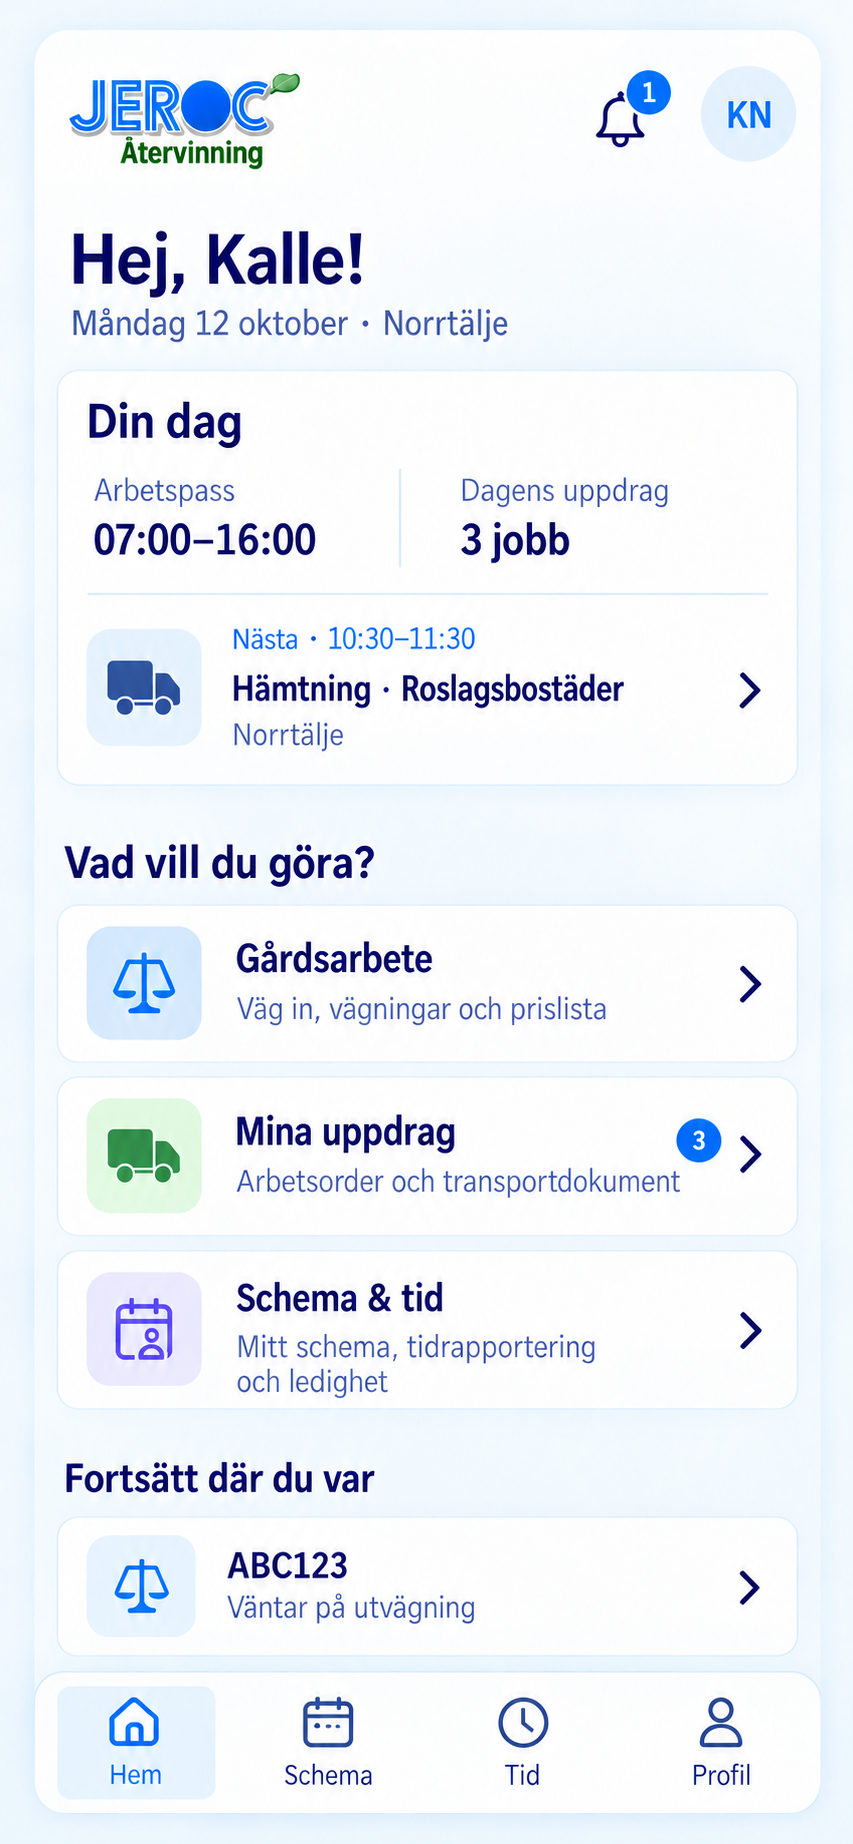
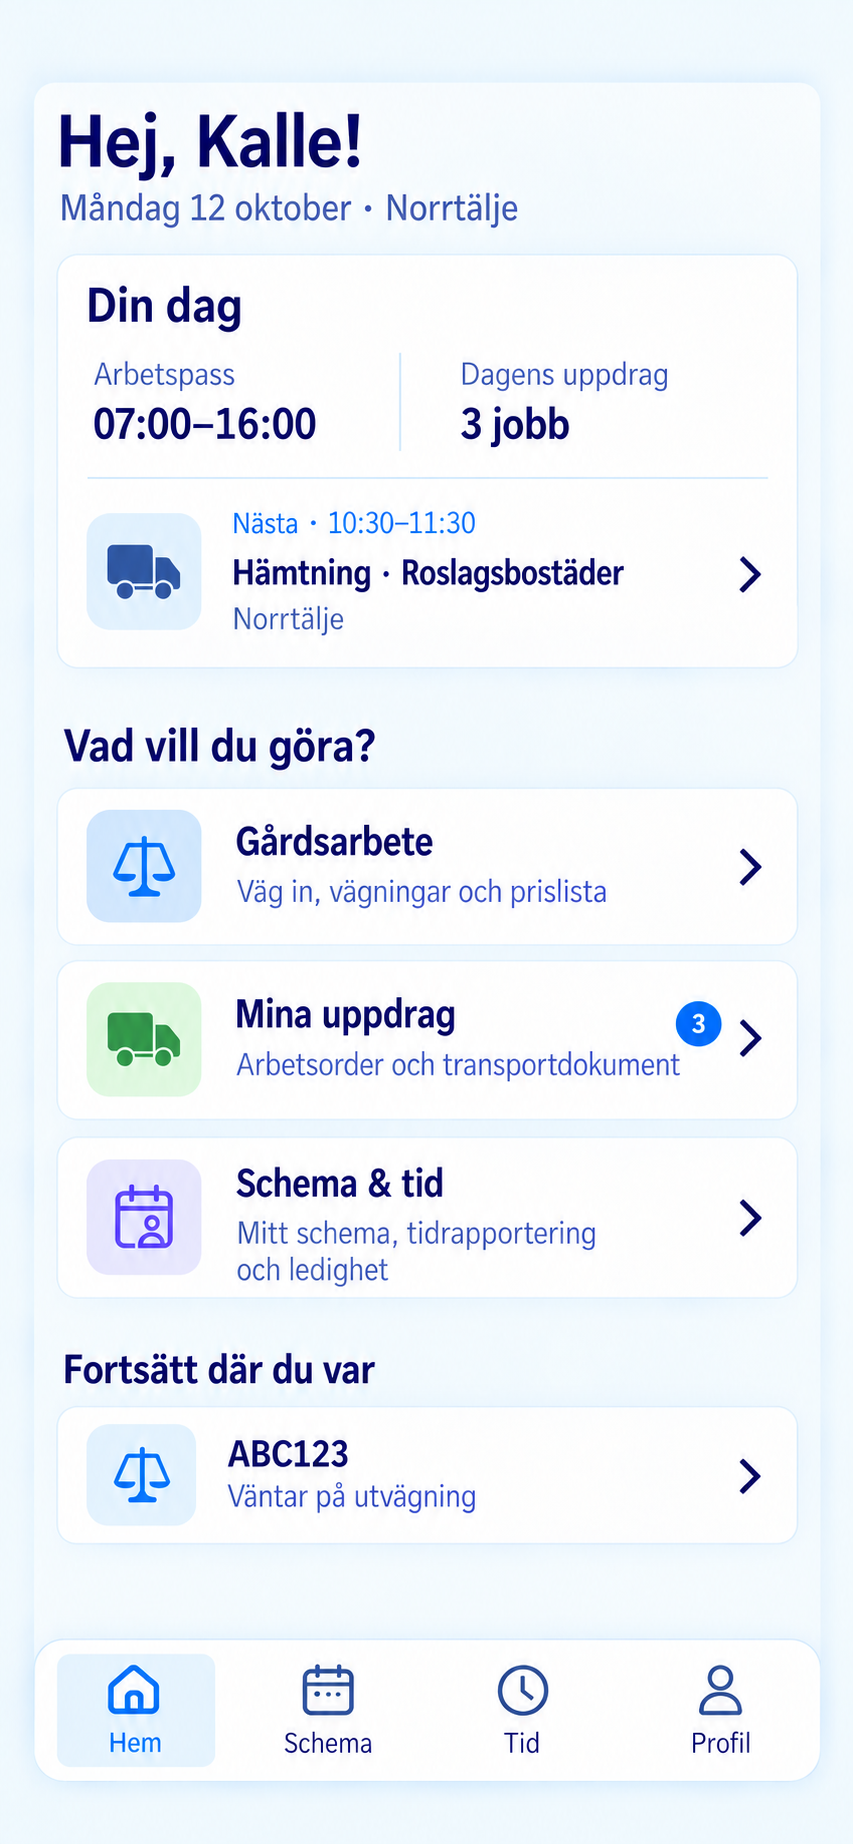
docs: simplify headers across all mobile mockups

diff --git a/docs/mockups/mobil-huvudvyer/README.md b/docs/mockups/mobil-huvudvyer/README.md
@@ -5,6 +5,11 @@ En gemensam app med bottenmenyn
 **Hem · Schema · Tid · Profil**. Fiktiva exempeluppgifter för Kalle Nilsson.
 Detta är designförslag; den verkliga appen är inte ändrad.
 
+Alla fem vyer har ett kompakt sidhuvud: JEROC-loggan, aviseringsklockan
+och profilgenvägen högst upp tas bort för att ge innehållet mer plats.
+Sidans rubrik och nödvändiga tillbaka-knappar finns kvar. Bottenmenyn
+**Hem · Schema · Tid · Profil** ligger kvar; personens uppgifter visas på Profil.
+
 ## Hem
 
 Dagens överblick och tydliga ingångar till gårdsarbete och egna uppdrag.
